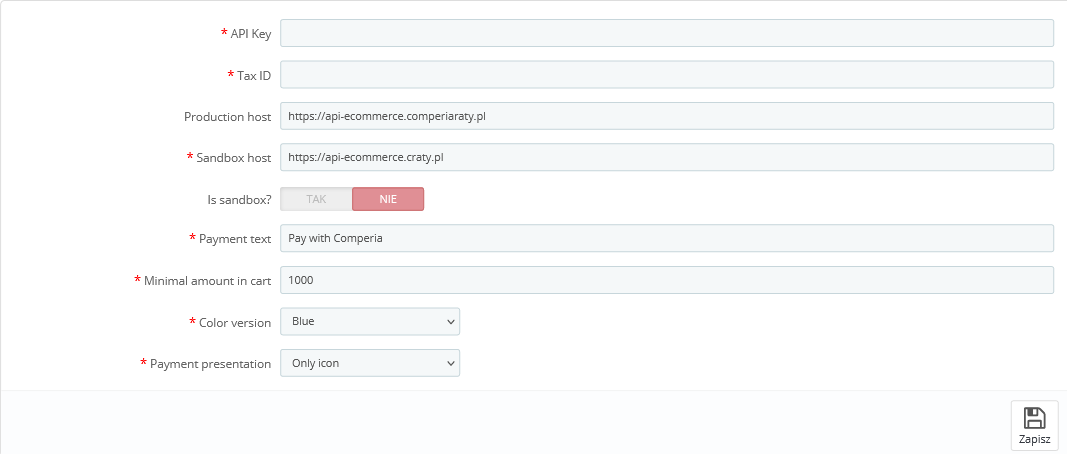
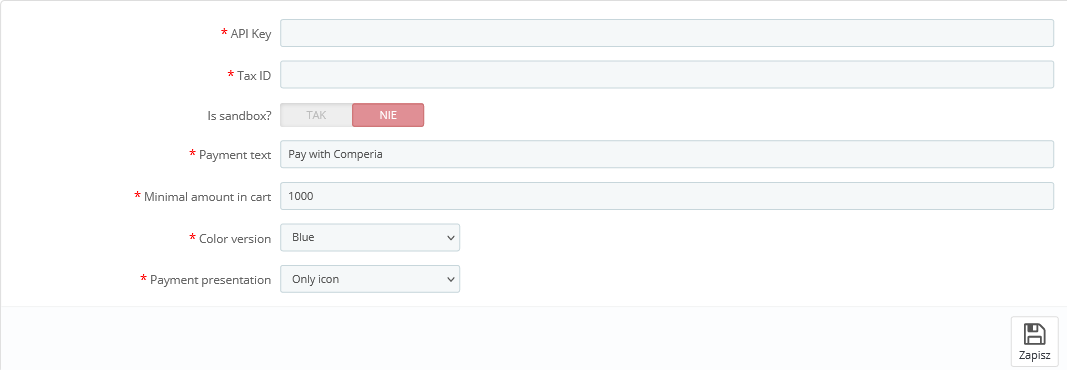
FN-8113 Remove COMFINO_LOAN_TERM parameter from plugin configuration (#13)
* FN-8113 Remove COMFINO_LOAN_TERM parameter from plugin configuration, add checking if offer contains representative example.

* FN-8113 Update plugin version (1.0.2 -> 1.2.0).

* FN-8113 Remove unused namespace import.

* FN-8113 Update screenshots in documentation.

diff --git a/comfino.php b/comfino.php
@@ -43,7 +43,7 @@ class Comfino extends PaymentModule
     {
         $this->name = 'comfino';
         $this->tab = 'payments_gateways';
-        $this->version = '1.0.2';
+        $this->version = '1.2.0';
         $this->author = 'M2 IT Solutions';
 
         $this->bootstrap = true;
@@ -90,7 +90,6 @@ class Comfino extends PaymentModule
         return Configuration::updateValue('COMFINO_COLOR_VERSION', ComfinoColorVersion::CYAN)
             && Configuration::updateValue('COMFINO_PAYMENT_TEXT', "Pay with Comperia")
             && Configuration::updateValue('COMFINO_MINIMAL_CART_AMOUNT', 1000)
-            && Configuration::updateValue('COMFINO_LOAN_TERM', 12)
             && Configuration::updateValue('COMFINO_ENABLED', false);
     }
 
@@ -172,7 +171,6 @@ class Comfino extends PaymentModule
     {
         return Configuration::deleteByName('COMFINO_COLOR_VERSION')
             && Configuration::deleteByName('COMFINO_PAYMENT_TEXT')
-            && Configuration::deleteByName('COMFINO_LOAN_TERM')
             && Configuration::deleteByName('COMFINO_TAX_ID')
             && Configuration::deleteByName('COMFINO_ENABLED');
     }
@@ -199,7 +197,6 @@ class Comfino extends PaymentModule
             Configuration::updateValue('COMFINO_COLOR_VERSION', Tools::getValue('COMFINO_COLOR_VERSION'));
             Configuration::updateValue('COMFINO_API_KEY', Tools::getValue('COMFINO_API_KEY'));
             Configuration::updateValue('COMFINO_IS_SANDBOX', Tools::getValue('COMFINO_IS_SANDBOX'));
-            Configuration::updateValue('COMFINO_LOAN_TERM', Tools::getValue('COMFINO_LOAN_TERM'));
             Configuration::updateValue('COMFINO_TAX_ID', Tools::getValue('COMFINO_TAX_ID'));
             Configuration::updateValue('COMFINO_MINIMAL_CART_AMOUNT', Tools::getValue('COMFINO_MINIMAL_CART_AMOUNT'));
             Configuration::updateValue('COMFINO_IS_SANDBOX', Tools::getValue('COMFINO_IS_SANDBOX'));
@@ -398,7 +395,6 @@ class Comfino extends PaymentModule
         $helper->fields_value['COMFINO_COLOR_VERSION'] = Configuration::get('COMFINO_COLOR_VERSION');
         $helper->fields_value['COMFINO_API_KEY'] = Configuration::get('COMFINO_API_KEY');
         $helper->fields_value['COMFINO_PAYMENT_PRESENTATION'] = Configuration::get('COMFINO_PAYMENT_PRESENTATION');
-        $helper->fields_value['COMFINO_LOAN_TERM'] = Configuration::get('COMFINO_LOAN_TERM');
         $helper->fields_value['COMFINO_TAX_ID'] = Configuration::get('COMFINO_TAX_ID');
         $helper->fields_value['COMFINO_IS_SANDBOX'] = Configuration::get('COMFINO_IS_SANDBOX');
         $helper->fields_value['COMFINO_MINIMAL_CART_AMOUNT'] = Configuration::get('COMFINO_MINIMAL_CART_AMOUNT');
@@ -484,12 +480,6 @@ class Comfino extends PaymentModule
                     'type' => 'text',
                     'label' => $this->l('Payment text'),
                     'name' => 'COMFINO_PAYMENT_TEXT',
-                    'required' => true
-                ],
-                [
-                    'type' => 'text',
-                    'label' => $this->l('Repayment time'),
-                    'name' => 'COMFINO_LOAN_TERM',
                     'required' => true
                 ],
                 [

diff --git a/controllers/front/offer.php b/controllers/front/offer.php
@@ -25,8 +25,6 @@
  *  International Registered Trademark & Property of PrestaShop SA
  */
 
-use PrestaShop\PrestaShop\Core\Domain\Address\Query\GetRequiredFieldsForAddress;
-
 if (!defined('_PS_VERSION_')) {
     return;
 }
@@ -61,17 +59,15 @@ class ComfinoOfferModuleFrontController extends ModuleFrontController
     private function getContent()
     {
         $cart = $this->context->cart;
-        $total = $cart->getOrderTotal(true) * 100;
-        $loanTerm = Configuration::get('COMFINO_LOAN_TERM');
-        $result = ComfinoApi::getOffer($loanTerm, $total);
+        $total = $cart->getOrderTotal() * 100;
+        $result = ComfinoApi::getOffer($total);
         $result = json_decode($result, true);
         $payment_infos = [];
-
-
         $set = false;
+
         if (is_array($result)) {
             foreach ($result as $item) {
-                $loanAmount = round(((float)$item['instalmentAmount']) * ((float)$loanTerm) / 100, 2);
+                $loanAmount = round(((float)$item['instalmentAmount']) * ((float)$item['loanTerm']) / 100, 2);
                 if ($loanAmount < ($total / 100)) {
                     $loanAmount = round($total / 100, 2);
                 }
@@ -80,7 +76,6 @@ class ComfinoOfferModuleFrontController extends ModuleFrontController
                     $cookie = Context::getContext()->cookie;
                     $cookie->loan_amount = $loanAmount;
                     $cookie->loan_type = $item['type'];
-                    $cookie->loan_term = Configuration::get('COMFINO_LOAN_TERM');
                     $cookie->write();
 
                     $set = true;
@@ -97,7 +92,7 @@ class ComfinoOfferModuleFrontController extends ModuleFrontController
                     'sumAmount' => number_format($loanAmount, 2, ',', ' '),
                     'representativeExample' => $item['representativeExample'],
                     'rrso' => number_format($rrso, 2, ',', ' '),
-                    'loanTerm' => Configuration::get('COMFINO_LOAN_TERM'),
+                    'loanTerm' => $item['loanTerm'],
                     'instalmentAmount' => number_format($installmentAmount, 2, ',', ' '),
                     'toPay' => number_format($toPay, 2, ',', ' '),
                 ];

diff --git a/src/Api.php b/src/Api.php
@@ -191,12 +191,11 @@ class ComfinoApi
     }
 
     /**
-     * @param $loanTerm
      * @param $loanAmount
      *
      * @return bool|string
      */
-    public static function getOffer($loanTerm, $loanAmount)
+    public static function getOffer($loanAmount)
     {
         $curl = curl_init();
         $loanAmount = (float)$loanAmount;
@@ -206,7 +205,7 @@ class ComfinoApi
             $url = self::COMFINO_SANDBOX_HOST;
         }
 
-        $url .= "/v1/financial-products?loanAmount={$loanAmount}&loanTerm={$loanTerm}";
+        $url .= "/v1/financial-products?loanAmount={$loanAmount}";
 
         curl_setopt_array(
             $curl,
